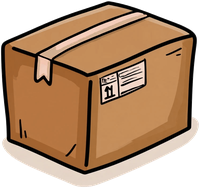
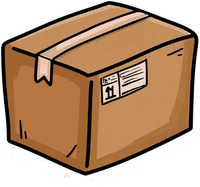
광장: 휴대폰 화면 정리 (들판 세로로 길게 · 스크롤 · 물류센터 줄 작게 · 원 좁게) · 캐릭터를 집만큼 크게 · 퇴근한 집을 누르면 문에 붙인 메모 '오늘 영업 끝났습니다' · 박스 그림자 없애고 겹쳐 쌓기 · 박스를 누르면 조 · 업체 · 주문 · 금액 · 패킹완료일
Claude-Session: https://claude.ai/code/session_01FJjmZS4UAcAfVvvFLL5GtA

diff --git a/src/styles.css b/src/styles.css
@@ -9650,7 +9650,7 @@ html.pz-open .mcal-btn, html.pz-open .mcal-pop { display: none; }
 .pz-house.on .pz-art { filter: drop-shadow(0 0 8px rgba(255, 214, 92, 0.55)); }
 .pz-house.off .pz-art { filter: saturate(0.8) brightness(0.95); }
 .pz-night .pz-house.off .pz-art { filter: saturate(0.6) brightness(0.75); }
-.pz-art-char { right: 2%; bottom: 4%; width: 30%; height: auto; animation: pz-peek 3.6s ease-in-out infinite; }
+.pz-art-char { right: -34%; bottom: 0; width: 64%; height: auto; z-index: 2; animation: pz-peek 3.6s ease-in-out infinite; filter: drop-shadow(0 3px 2px rgba(0, 0, 0, 0.25)); }
 @keyframes pz-peek { 50% { transform: translateY(-2px); } }
 .pz-house.flip .pz-art-char { transform: scaleX(-1); animation: none; }
 /* 그림 속 우편함 (왼쪽 아래) */
@@ -9678,8 +9678,8 @@ html.pz-open .mcal-btn, html.pz-open .mcal-pop { display: none; }
 .pz-wh-building img { width: 100%; display: block; user-select: none; }
 .pz-wh-sign { position: absolute; left: 22%; top: 41%; transform: rotate(-6deg); background: #fff8e8; border: 3px solid #3b2626; border-radius: 8px; padding: 2px 12px; font-weight: 800; font-size: 18px; color: #3b2626; letter-spacing: 1px; box-shadow: 0 3px 0 rgba(0, 0, 0, 0.2); }
 .pz-yard { position: relative; width: clamp(150px, 24vmin, 300px); min-height: 110px; padding-bottom: 26px; display: flex; flex-direction: column; justify-content: flex-end; }
-.pz-yard-boxes { display: flex; flex-wrap: wrap-reverse; align-items: flex-end; align-content: flex-start; justify-content: center; gap: 0 2px; }
-.pz-box { display: block; height: auto; margin-top: -10px; cursor: help; transition: transform 0.15s; filter: drop-shadow(0 2px 1px rgba(60, 40, 20, 0.25)); user-select: none; }
+.pz-yard-boxes { display: flex; flex-wrap: wrap-reverse; align-items: flex-end; align-content: flex-start; justify-content: center; gap: 0; padding-left: 10px; }
+.pz-box { display: block; height: auto; margin: calc(-24px * var(--box-k, 1)) 0 0 calc(-10px * var(--box-k, 1)); cursor: pointer; transition: transform 0.15s; filter: drop-shadow(0 2px 1px rgba(60, 40, 20, 0.25)); user-select: none; }
 .pz-box:hover { transform: translateY(-5px) rotate(-3deg); }
 .pz-box-more { align-self: center; font-weight: 800; color: #5a3b22; background: rgba(255, 255, 255, 0.7); border-radius: 999px; padding: 2px 10px; }
 .pz-wh-empty { margin: auto; color: #3d5a2c; font-size: 14px; background: rgba(255, 255, 255, 0.55); border-radius: 12px; padding: 6px 12px; }
@@ -9714,12 +9714,29 @@ html.pz-open .mcal-btn, html.pz-open .mcal-pop { display: none; }
 .pz-inbox figcaption button { margin-left: auto; }
 .pz-note-big { position: fixed; inset: 0; z-index: 1200; background: rgba(20, 12, 12, 0.8); display: flex; flex-direction: column; align-items: center; justify-content: center; gap: 10px; cursor: zoom-out; color: #fff; }
 .pz-note-big img { max-width: min(92vw, 900px); max-height: 80vh; border-radius: 12px; background: #fffaf2; }
-@media (max-width: 720px) {
-  .pz { padding: 18px 12px 26px; }
-  .pz-hill { flex-direction: column; align-items: stretch; }
-  .pz-board { align-self: center; }
-  .pz-wh { flex-direction: column; align-items: center; }
-  .pz-town { grid-template-columns: 1fr; }
+/* 세로로 긴 화면 (휴대폰): 들판을 세로로 길게 · 스크롤 · 물류센터는 아래에 한 줄로 작게 */
+@media (max-aspect-ratio: 4/5) {
+  .pz { overflow-y: auto; overflow-x: hidden; -webkit-overflow-scrolling: touch; }
+  .pz-top { position: fixed; padding: 10px 12px; gap: 8px; background: linear-gradient(rgba(60, 120, 40, 0.55), transparent); }
+  .pz-hint { display: none; }
+  .pz-field { position: relative; inset: auto; height: max(100vh, 178vw); }
+  .pz-house { width: 20vw; }
+  .pz-house.big { width: 23vw; }
+  .pz-name { font-size: 11px; padding: 1px 6px; }
+  .pz-sign { font-size: 10px; padding: 0 6px; }
+  .pz-field > .pz-wh { bottom: 1%; gap: 0; }
+  .pz-wh-building { width: 40vw; }
+  .pz-yard { width: 26vw; min-height: 0; padding-bottom: 22px; }
+  .pz-truck { width: 30vw; }
+  .pz-wh-sign { font-size: 12px; padding: 1px 6px; border-width: 2px; }
+  .pz-truck-n { font-size: 10px; padding: 1px 5px; }
+  .pz-wh-count { font-size: 10.5px; padding: 1px 8px; }
+  .pz-wh-empty { font-size: 11px; padding: 4px 8px; }
+  .pz { --box-k: 0.42; }
+  .pz-box { margin-top: -5px; }
+  .pz-truck-pop { left: auto; right: 0; transform: none; width: min(300px, 86vw); }
+  .pz-board-face { width: 34vw; padding: 8px; }
+  .pz-say { max-width: 60vw; font-size: 12px; }
 }
 .pz-field > .pz-board { z-index: 1; }
 .pz-dusk .pz-ground { filter: sepia(0.25) brightness(0.92); }
@@ -9734,3 +9751,19 @@ html.pz-open .mcal-btn, html.pz-open .mcal-pop { display: none; }
 .pz-say.below::after { top: auto; bottom: 100%; border-top-color: transparent; border-bottom-color: #2b2b2b; }
 .pz-say.below::before { top: auto; bottom: calc(100% - 4px); border-top-color: transparent; border-bottom-color: #fff; }
 .pz-say { max-width: 240px; }
+
+/* 퇴근: 문에 붙여 둔 메모 */
+.pz-say.memo { bottom: auto; top: 30%; left: 50%; width: 82%; max-width: 150px; white-space: pre-line; word-break: keep-all; font-size: clamp(11px, 1.7vmin, 14px) !important; background: #fff6a8; color: #4a3b1e; border: 0; border-radius: 2px; padding: 14px 12px 10px; font-family: var(--serif); font-size: 14px; transform: translateX(-50%) rotate(-5deg); box-shadow: 2px 4px 8px rgba(0, 0, 0, 0.25); animation: pz-stick 0.3s ease-out; }
+.pz-say.memo::after { left: 50%; top: -8px; transform: translateX(-50%) rotate(3deg); width: 46px; height: 16px; border: 0; background: rgba(255, 255, 255, 0.65); box-shadow: 0 1px 2px rgba(0, 0, 0, 0.12); }
+.pz-say.memo::before { display: none; }
+@keyframes pz-stick { from { opacity: 0; transform: translateX(-50%) rotate(-14deg) scale(1.15); } to { opacity: 1; transform: translateX(-50%) rotate(-5deg); } }
+/* 박스를 누르면: 무슨 주문인지 */
+.pz-box.on { transform: translateY(-6px); filter: drop-shadow(0 0 6px #fff6a0) drop-shadow(0 2px 1px rgba(60, 40, 20, 0.25)); }
+.pz-box-pop { position: absolute; z-index: 6; left: 50%; bottom: calc(100% + 8px); transform: translateX(-50%); width: max-content; max-width: 240px; display: flex; flex-direction: column; align-items: center; gap: 2px; text-align: center; background: #fffaf0; border: 2.5px solid #2b2b2b; border-radius: 14px; padding: 8px 14px 9px; box-shadow: 0 4px 0 rgba(0, 0, 0, 0.15); animation: pz-pop2 0.2s ease-out; cursor: pointer; }
+.pz-box-pop::after { content: ''; position: absolute; top: 100%; left: 50%; transform: translateX(-50%); border: 8px solid transparent; border-top-color: #2b2b2b; }
+@keyframes pz-pop2 { from { opacity: 0; transform: translateX(-50%) translateY(6px); } to { opacity: 1; transform: translateX(-50%); } }
+.pz-box-pop-team { font-size: 11px; font-weight: 700; color: #fff; background: var(--primary); border-radius: 999px; padding: 0 8px; }
+.pz-box-pop b { font-size: 14px; }
+.pz-box-pop-name { font-size: 13px; color: #4a3b2e; }
+.pz-box-pop-amt { font-size: 15px; font-weight: 800; color: var(--primary); }
+.pz-box-pop small { font-size: 11px; color: #8a7a6a; }

diff --git a/src/pages/Plaza.tsx b/src/pages/Plaza.tsx
@@ -48,10 +48,10 @@ function backDay(period: string | undefined, todayIso: string) {
 const hourText = (min: number) => `${Math.floor(min / 60)}시${min % 60 ? ` ${min % 60}분` : ''}`;
 
 /** 지금 불이 켜져 있나 + 꺼져 있으면 왜 + 빈집을 누르면 뜨는 말 */
-function lightOf(r: Attendance | undefined, nowMin: number, todayIso = ''): { on: boolean; sign: string; icon: string; msg?: string } {
+function lightOf(r: Attendance | undefined, nowMin: number, todayIso = ''): { on: boolean; sign: string; icon: string; msg?: string; memo?: boolean } {
   if (!r) return { on: false, sign: '', icon: '' };
   const txt = `${r.status} ${r.period ?? ''}`;
-  if (r.status.includes('퇴근')) return { on: false, sign: '퇴근', icon: '🌙' };
+  if (r.status.includes('퇴근')) return { on: false, sign: '퇴근', icon: '🌙', msg: '오늘 영업\n끝났습니다', memo: true };
   if (/출장/.test(txt)) return { on: false, sign: '출장', icon: '✈', msg: '집에만 없을 뿐.. 여전히 일하는 중 💼' };
   // 대체시차 · 반차 · 외출: 그 시간 안이면 꺼짐
   const tm = r.period?.match(/(\d{1,2}):(\d{2})\s*[~\-–]\s*(\d{1,2}):(\d{2})/);
@@ -250,7 +250,9 @@ export default function Plaza() {
     .map((k) => -90 + (k * 360) / slots);
   const posOf = (deg: number): CSSProperties => {
     const r = (deg * Math.PI) / 180;
-    return { left: `${RX0 + RX * Math.cos(r)}%`, top: `${RY0 + RY * Math.sin(r)}%` };
+    // 세로로 긴 화면(휴대폰)은 양옆 집이 잘리지 않게 원을 조금 좁게
+    const rx = fieldSize && fieldSize.w / fieldSize.h < 0.8 ? 35 : RX;
+    return { left: `${RX0 + rx * Math.cos(r)}%`, top: `${RY0 + RY * Math.sin(r)}%` };
   };
   // 들판 크기 (흙길 · 덤불을 픽셀로 그리려고)
   const fieldRef = useRef<HTMLDivElement>(null);
@@ -280,7 +282,9 @@ export default function Plaza() {
       })
       .map((o) => {
         const c = companies.get(o.companyId ?? '');
-        return { id: `${o.team}|${o.id}`, name: o.name, co: coShort(c), color: c?.color ?? '#b5652b', krw: o.amountKRW ?? 0, team: o.team };
+        const p = o.packing ? parseDate(o.packing) : null;
+        const until = p || addDays((o.orderDate || o.acceptDate || todayIso).slice(0, 10), 14);
+        return { id: `${o.team}|${o.id}`, name: o.name, co: coShort(c), color: c?.color ?? '#b5652b', krw: o.amountKRW ?? 0, team: o.team, until, guess: !p };
       })
       .sort((a, b) => b.krw - a.krw);
     // 출고 예정: 출고일(묶음이면 묶음 출고일)이 오늘 이후 · 아직 출고 안 됨 — 묶음은 하나로
@@ -303,6 +307,7 @@ export default function Plaza() {
   const maxKrw = Math.max(1, ...boxes.map((b) => b.krw));
   const boxSize = (krw: number) => Math.round(34 + 52 * Math.sqrt(krw / maxKrw));
   const [truckOpen, setTruckOpen] = useState(false);
+  const [pickBox, setPickBox] = useState<(typeof boxes)[number] | null>(null);
 
   // 광장은 화면 전체 (위 메뉴 · 탭 없이) — 스크롤 막기
   useEffect(() => {
@@ -330,7 +335,7 @@ export default function Plaza() {
         )}
       </div>
 
-      <div className="pz-field" ref={fieldRef}>
+      <div className="pz-field" ref={fieldRef} onClick={() => setPickBox(null)}>
         {fieldSize && <Ground w={fieldSize.w} h={fieldSize.h} />}
         {/* 가운데: 게시판 */}
         <div className="pz-board" title="게시판 · 투표 · 공지 (준비 중)">
@@ -380,18 +385,30 @@ export default function Plaza() {
                 boxes.slice(0, 40).map((b) => (
                   <img
                     key={b.id}
-                    className="pz-box"
+                    className={`pz-box ${pickBox?.id === b.id ? 'on' : ''}`}
                     src="./plaza/box.png"
-                    alt=""
+                    alt={b.name}
                     draggable={false}
-                    style={{ width: boxSize(b.krw) }}
-                    title={`${b.co ? `${b.co} · ` : ''}${b.name}\n${won(b.krw)} · ${teamLabel(b.team)}`}
+                    style={{ width: `calc(${boxSize(b.krw)}px * var(--box-k, 1))` }}
+                    onClick={(e) => {
+                      e.stopPropagation();
+                      setPickBox((cur) => (cur?.id === b.id ? null : b));
+                    }}
                   />
                 ))
               )}
               {boxes.length > 40 && <span className="pz-box-more">+{boxes.length - 40}</span>}
             </div>
             <div className="pz-wh-count">📦 패킹 중 {boxes.length}건</div>
+            {pickBox && (
+              <div className="pz-box-pop" onClick={() => setPickBox(null)}>
+                <span className="pz-box-pop-team">{teamLabel(pickBox.team)}</span>
+                {pickBox.co && <b>{pickBox.co}</b>}
+                <span className="pz-box-pop-name">{pickBox.name}</span>
+                <span className="pz-box-pop-amt">{won(pickBox.krw)}</span>
+                {pickBox.until && <small>패킹완료 {pickBox.guess ? '예상 ' : ''}{md(pickBox.until)}</small>}
+              </div>
+            )}
           </div>
           <div className={`pz-truck ${truckOpen ? 'open' : ''}`} onMouseEnter={() => setTruckOpen(true)} onMouseLeave={() => setTruckOpen(false)} onClick={() => setTruckOpen((v) => !v)}>
             <img className="pz-truck-img" src="./plaza/truck.png" alt="출고 트럭" draggable={false} />
@@ -474,7 +491,7 @@ function House({ m, light, mine, unread, onMail, big, flip, sayBelow }: { sayBel
         </span>
       )}
       {say && light.msg && (
-        <div className={`pz-say ${sayBelow ? 'below' : ''}`} onClick={() => setSay(false)}>
+        <div className={`pz-say ${light.memo ? 'memo' : sayBelow ? 'below' : ''}`} onClick={() => setSay(false)}>
           {light.msg}
         </div>
       )}
